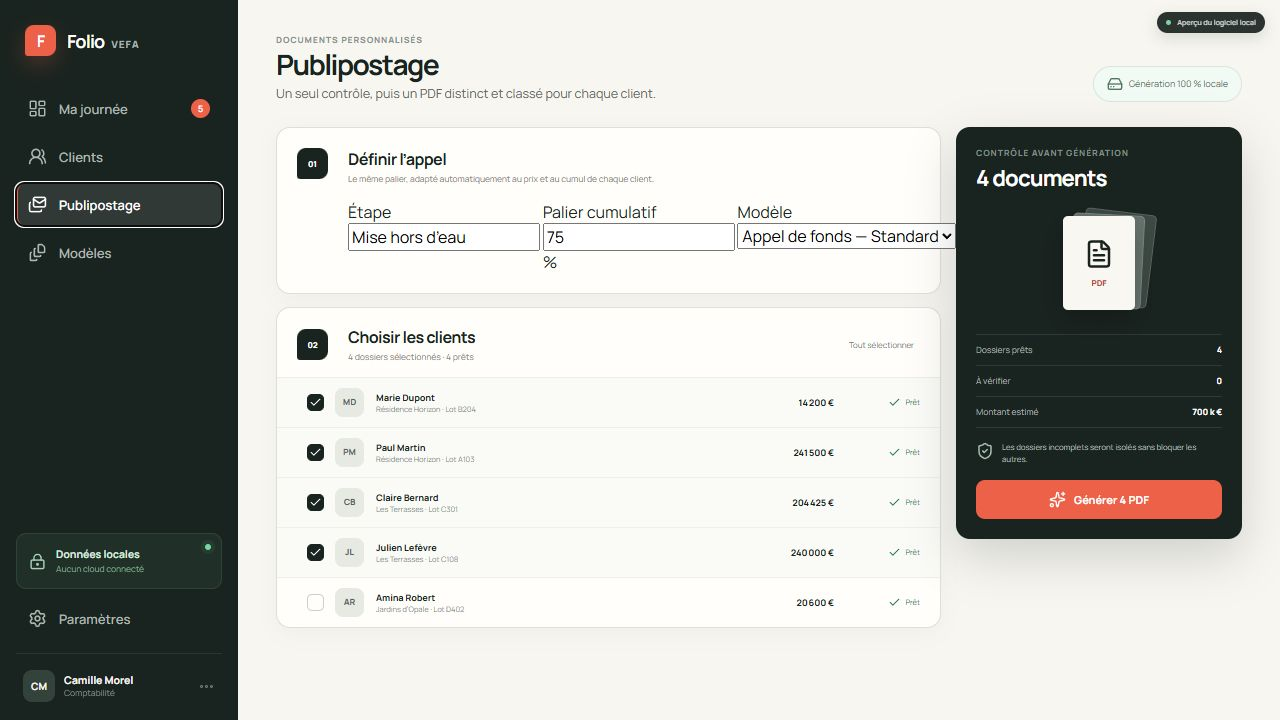
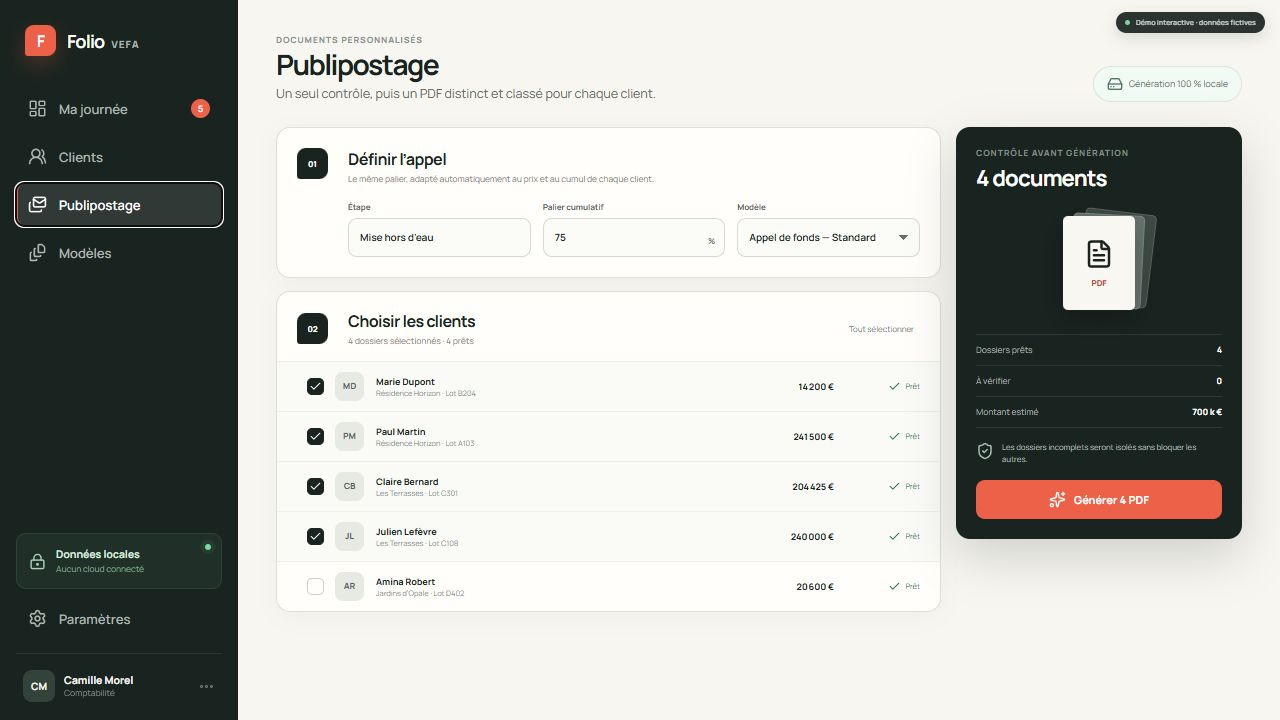
Calibrate story steps and refresh product capture

diff --git a/app/globals.css b/app/globals.css
@@ -33,12 +33,14 @@ button, input { font: inherit; }
 
 .hero { min-height: 1050px; position: relative; overflow: hidden; padding: 165px clamp(24px, 6vw, 92px) 110px; background: radial-gradient(circle at 18% 10%, #fff 0, rgba(255,255,255,0) 33%), var(--paper); }
 .hero::before { content: ""; position: absolute; width: 780px; height: 780px; border: 1px solid rgba(20,33,28,.08); border-radius: 50%; left: 50%; top: -490px; transform: translateX(-50%); box-shadow: 0 0 0 95px rgba(20,33,28,.018), 0 0 0 190px rgba(20,33,28,.012); }
-.hero__copy { position: relative; z-index: 2; max-width: 990px; margin: auto; text-align: center; }
+.hero__copy { position: relative; z-index: 2; max-width: 1220px; margin: auto; text-align: center; }
 .hero__eyebrow { width: fit-content; margin: 0 auto 28px; display: flex; align-items: center; gap: 10px; font-size: 10px; text-transform: uppercase; letter-spacing: .12em; color: #748079; }
-.hero__eyebrow span { background: var(--ink); color: white; padding: 7px 10px; border-radius: 30px; }
+.hero__eyebrow span { color: var(--ink); font-weight: 730; }
 .hero__eyebrow i { width: 3px; height: 3px; background: var(--accent); border-radius: 50%; }
-.hero h1 { margin: 0; font-size: clamp(52px, 7.4vw, 112px); line-height: .9; letter-spacing: -.072em; font-weight: 620; }
-.hero h1 em, .privacy h2 em, .outcome h2 em, .closing h2 em { font-family: var(--serif); font-weight: 420; color: var(--accent); }
+.hero h1 { margin: 0; font-size: clamp(52px, 6.15vw, 104px); line-height: .92; letter-spacing: -.068em; font-weight: 620; }
+.hero h1 span, .hero h1 em { display: block; white-space: nowrap; }
+.hero h1 em, .privacy h2 em, .outcome h2 em, .closing h2 em { font-family: var(--serif); font-weight: 420; }
+.hero h1 em { color: var(--ink); margin-top: .08em; }
 .hero__copy > p { max-width: 720px; margin: 34px auto 30px; color: var(--ink-soft); font-size: clamp(16px, 1.45vw, 20px); line-height: 1.65; }
 .hero__actions { display: flex; align-items: center; justify-content: center; gap: 24px; }
 .primary-link { min-height: 52px; padding: 0 20px; border-radius: 10px; background: var(--ink); color: white; display: inline-flex; align-items: center; gap: 20px; font-size: 12px; font-weight: 700; box-shadow: 0 12px 32px rgba(20,33,28,.16); transition: .2s ease; }
@@ -82,16 +84,18 @@ button, input { font: inherit; }
 .manifesto__compare article span { color: #7f8f87; text-transform: uppercase; letter-spacing: .12em; font-size: 8px; font-weight: 720; }
 .manifesto__compare article strong { font-size: clamp(14px, 1.3vw, 19px); font-weight: 600; }
 .manifesto__compare > i { display: grid; place-items: center; color: #718078; font-size: 19px; font-style: normal; }
-.manifesto__compare .manifesto__compare-result { background: var(--accent); color: white; }
-.manifesto__compare .manifesto__compare-result span { color: rgba(255,255,255,.7); }
+.manifesto__compare .manifesto__compare-result { background: rgba(255,255,255,.075); color: white; border-left: 3px solid var(--accent); }
+.manifesto__compare .manifesto__compare-result span { color: #f18a75; }
 
 .story { padding: 130px clamp(24px, 3vw, 52px) 100px; background: var(--paper-light); overflow: clip; }
 .story__intro { max-width: 1680px; margin: 0 auto 90px; display: grid; grid-template-columns: .65fr 1.45fr .9fr; align-items: end; gap: 40px; }
 .story__intro h2 { margin: 0; font-size: clamp(44px, 5vw, 74px); line-height: .96; letter-spacing: -.065em; font-weight: 620; }
 .story__intro p { margin: 0 0 5px; color: #6e7973; font-size: 14px; line-height: 1.7; }
-.story__grid { max-width: 1760px; width: 100%; margin: auto; display: grid; grid-template-columns: minmax(390px, .62fr) minmax(700px, 1.38fr); gap: clamp(34px, 4vw, 72px); }
-.story__copy { padding-bottom: 35vh; }
-.story-step { min-height: 90vh; display: grid; grid-template-columns: 46px 1fr; gap: 24px; align-content: center; opacity: .22; will-change: transform, opacity; }
+.story__anchor { display: block; height: 0; scroll-margin-top: 0; }
+.story__sequence { position: relative; max-width: 1760px; width: 100%; height: 400svh; margin: auto; }
+.story__stage { position: sticky; top: 0; height: 100svh; display: grid; grid-template-columns: minmax(390px, .62fr) minmax(700px, 1.38fr); gap: clamp(34px, 4vw, 72px); align-items: center; overflow: hidden; }
+.story__copy { position: relative; min-height: 520px; }
+.story-step { position: absolute; inset: 0; display: grid; grid-template-columns: 46px 1fr; gap: 24px; align-content: center; opacity: 1; will-change: transform, opacity, filter; }
 .story-step--active { opacity: 1; }
 .story-step__number { width: 40px; height: 40px; display: grid; place-items: center; border: 1px solid #cfd3cc; border-radius: 50%; font-size: 10px; font-weight: 740; }
 .story-step--active .story-step__number { background: var(--ink); color: white; border-color: var(--ink); }
@@ -100,21 +104,25 @@ button, input { font: inherit; }
 .story-step p { max-width: 530px; color: #657069; font-size: 15px; line-height: 1.72; }
 .story-step strong { display: flex; align-items: center; gap: 8px; margin-top: 25px; font-size: 11.5px; line-height: 1.45; font-weight: 690; }
 .story-step strong i { width: 7px; height: 7px; background: var(--green); border-radius: 50%; box-shadow: 0 0 0 5px rgba(46,125,97,.1); }
-.story__sticky { position: sticky; top: 4vh; height: 92vh; display: flex; flex-direction: column; justify-content: center; min-width: 0; perspective: 1500px; }
-.story__visual-motion { position: relative; width: min(100%, calc((92vh - 80px) * 1.72)); margin-left: auto; transform-style: preserve-3d; will-change: transform; }
+.story__visual { position: relative; width: min(100%, calc((100vh - 120px) * 1.72)); margin-left: auto; }
 .story__visual-head { min-height: 39px; padding: 0 3px 10px; display: flex; align-items: center; justify-content: space-between; color: #727d77; }
 .story__visual-head > div { display: flex; align-items: center; gap: 10px; }
 .story__visual-head b { min-width: 27px; height: 27px; border-radius: 8px; display: grid; place-items: center; background: var(--ink); color: white; font-size: 8px; }
 .story__visual-head div span { color: var(--ink); text-transform: uppercase; letter-spacing: .11em; font-size: 9px; font-weight: 730; }
 .story__visual-head > span { display: flex; align-items: center; gap: 7px; text-transform: uppercase; letter-spacing: .1em; font-size: 8px; font-weight: 700; }
 .story__visual-head > span i { width: 6px; height: 6px; border-radius: 50%; background: var(--green); box-shadow: 0 0 0 5px rgba(46,125,97,.09); }
-.story__screen { min-height: 0; position: relative; overflow: hidden; border-radius: 13px; }
-.story__screen-light { position: absolute; z-index: 3; inset: -30% auto -30% -35%; width: 28%; pointer-events: none; transform: skewX(-15deg); background: linear-gradient(90deg, transparent, rgba(255,255,255,.32), transparent); filter: blur(8px); }
+.story__screen { position: relative; aspect-ratio: 1280 / 753; overflow: hidden; border-radius: 13px; background: #e9e9e3; isolation: isolate; }
+.story__screen-layer { position: absolute; inset: 0; transform-origin: center; will-change: transform, opacity, filter, clip-path; }
+.story__screen-layer .product-frame { height: 100%; }
+.story__screen-layer .product-frame img { width: 100%; }
 .story__screen .product-frame { box-shadow: 0 40px 110px rgba(20,33,28,.19); }
 .story__counter { display: grid; grid-template-columns: auto 1fr auto; gap: 11px; align-items: center; margin-top: 19px; color: #7d8781; font-size: 9px; }
 .story__counter > i { display: grid; grid-template-columns: repeat(4, 1fr); gap: 4px; }
 .story__counter b { display: block; height: 2px; background: #d7dad4; }
-.story__counter b.active { background: var(--ink); }
+.story__counter b { transition: background .35s ease, transform .35s ease; transform-origin: left; }
+.story__counter b.active { background: var(--ink); transform: scaleY(1.5); }
+.story__triggers { position: absolute; inset: 0; display: grid; grid-template-rows: repeat(4, 1fr); pointer-events: none; visibility: hidden; }
+.story__mobile-list { display: none; }
 
 .privacy { padding: 150px clamp(24px, 8vw, 130px); background: #dfe9e1; position: relative; overflow: hidden; }
 .privacy::after { content: "LOCAL"; position: absolute; right: -30px; top: 60px; color: rgba(20,33,28,.035); font-size: 220px; font-weight: 760; letter-spacing: -.08em; }
@@ -153,6 +161,7 @@ button, input { font: inherit; }
 .closing__mark .folio-mark { width: 45px; height: 45px; font-size: 20px; border-radius: 13px 13px 13px 4px; }
 .closing > span { color: #86958d; font-size: 10px; text-transform: uppercase; letter-spacing: .16em; margin-top: 15px; }
 .closing h2 { font-size: clamp(56px, 7vw, 102px); letter-spacing: -.073em; line-height: .9; margin: 45px 0 28px; font-weight: 610; }
+.closing h2 em { color: #bac6c0; }
 .closing p { color: #9eaba4; font-size: 15px; max-width: 620px; line-height: 1.7; }
 .primary-link--light { margin-top: 25px; background: var(--paper-light); color: var(--ink); box-shadow: none; }
 .primary-link--light span { color: var(--accent); }
@@ -208,15 +217,16 @@ footer > span { text-align: right; }
   .routine-card:nth-child(3)::after { display: none; }
   .story__intro { grid-template-columns: 1fr; gap: 20px; }
   .story__intro h2 { max-width: 650px; }
-  .story__grid { grid-template-columns: 1fr; }
-  .story__copy { display: contents; }
-  .story-step { min-height: auto; padding: 100px 0 30px; }
-  .story__sticky { display: none; }
-  .story-step::after { content: ""; grid-column: 1 / -1; display: block; aspect-ratio: 16 / 9; margin-top: 25px; background-size: contain; background-repeat: no-repeat; background-position: center; border: 1px solid var(--line); border-radius: 10px; box-shadow: 0 24px 60px rgba(20,33,28,.12); }
-  .story-step:nth-child(1)::after { background-image: url('/screens/dashboard.png'); }
-  .story-step:nth-child(2)::after { background-image: url('/screens/client-detail.png'); }
-  .story-step:nth-child(3)::after { background-image: url('/screens/publipostage.png'); }
-  .story-step:nth-child(4)::after { background-image: url('/screens/confidentialite.png'); }
+  .story__sequence { display: none; }
+  .story__mobile-list { display: grid; }
+  .story-mobile-step { padding: 85px 0; border-top: 1px solid var(--line); }
+  .story-mobile-step:first-child { border-top: 0; }
+  .story-mobile-step > div { display: flex; align-items: center; gap: 13px; }
+  .story-mobile-step h3 { max-width: 720px; margin: 22px 0 18px; font-size: clamp(38px, 7vw, 60px); line-height: .96; letter-spacing: -.06em; }
+  .story-mobile-step p { max-width: 650px; color: #657069; font-size: 15px; line-height: 1.72; }
+  .story-mobile-step > strong { display: flex; align-items: center; gap: 8px; margin-top: 22px; font-size: 11.5px; }
+  .story-mobile-step > strong i { width: 7px; height: 7px; border-radius: 50%; background: var(--green); box-shadow: 0 0 0 5px rgba(46,125,97,.1); }
+  .story-mobile-step .product-frame { margin-top: 34px; }
   .privacy__split { grid-template-columns: 1fr; gap: 15px; margin: 0; }
   .privacy__divider { display: none; }
   .outcome__grid { grid-template-columns: 1fr; }
@@ -239,6 +249,7 @@ footer > span { text-align: right; }
   .hero { min-height: 760px; padding: 125px 18px 80px; }
   .hero__eyebrow { flex-wrap: wrap; justify-content: center; }
   .hero h1 { font-size: 49px; }
+  .hero h1 span, .hero h1 em { white-space: normal; }
   .hero__copy > p { font-size: 16px; }
   .hero__actions { flex-direction: column; }
   .product-frame__bar { height: 24px; }
@@ -262,6 +273,5 @@ footer > span { text-align: right; }
 
 @media (prefers-reduced-motion: reduce) {
   html { scroll-behavior: auto; }
-  .story__visual-motion { transform: none !important; }
   *, *::before, *::after { animation-duration: .01ms !important; animation-iteration-count: 1 !important; transition-duration: .01ms !important; }
 }

diff --git a/app/FolioStory.tsx b/app/FolioStory.tsx
@@ -2,7 +2,7 @@
 
 import { AnimatePresence, motion, useReducedMotion, useScroll, useSpring, useTransform } from "framer-motion";
 import Image from "next/image";
-import { useRef, useState } from "react";
+import { useState } from "react";
 import { RoutePortal, RouteTransitionLink } from "./RouteTransition";
 
 const stories = [
@@ -108,17 +108,13 @@ function Manifesto() {
 }
 
 export function FolioStory() {
-  const [activeStory, setActiveStory] = useState(0);
-  const storyGridRef = useRef<HTMLDivElement>(null);
+  const [{ index: activeStory, direction: storyDirection }, setStoryState] = useState({ index: 0, direction: 1 });
   const reduceMotion = useReducedMotion();
   const { scrollYProgress } = useScroll();
-  const { scrollYProgress: storyScrollProgress } = useScroll({ target: storyGridRef, offset: ["start end", "end start"] });
   const progress = useSpring(scrollYProgress, { stiffness: 110, damping: 28, mass: .35 });
   const heroY = useTransform(scrollYProgress, [0, .13], [0, reduceMotion ? 0 : 90]);
   const heroScale = useTransform(scrollYProgress, [0, .13], [1, reduceMotion ? 1 : .95]);
-  const storyScreenY = useTransform(storyScrollProgress, [0, .5, 1], [reduceMotion ? 0 : 58, 0, reduceMotion ? 0 : -58]);
-  const storyScreenScale = useTransform(storyScrollProgress, [0, .5, 1], [reduceMotion ? 1 : .965, reduceMotion ? 1 : 1.015, reduceMotion ? 1 : .965]);
-  const storyScreenRotateX = useTransform(storyScrollProgress, [0, .5, 1], [reduceMotion ? 0 : 2.2, 0, reduceMotion ? 0 : -2.2]);
+  const selectStory = (index: number) => setStoryState(previous => previous.index === index ? previous : { index, direction: index > previous.index ? 1 : -1 });
 
   return (
     <main>
@@ -137,7 +133,7 @@ export function FolioStory() {
       <section className="hero" id="haut">
         <motion.div className="hero__copy" initial={{ opacity: 0, y: 22 }} animate={{ opacity: 1, y: 0 }} transition={{ duration: .75, ease: [0.16, 1, 0.3, 1] }}>
           <div className="hero__eyebrow"><span>Conçu avec le métier</span><i />Logiciel local pour comptables VEFA</div>
-          <h1>Moins de dossiers à fouiller.<br /><em>Plus de travail déjà prêt.</em></h1>
+          <h1><span>Moins de dossiers à fouiller.</span><em>Plus de travail déjà prêt.</em></h1>
           <p>Folio réunit chaque client, prépare ses appels de fonds et génère ses courriers personnalisés — sans envoyer ses données sensibles sur le web.</p>
           <div className="hero__actions"><RouteTransitionLink className="primary-link" href="/demo" side="right">Manipuler le logiciel <span aria-hidden="true">↗</span></RouteTransitionLink><a className="text-link" href="#parcours">Voir le parcours <span aria-hidden="true">↓</span></a><span className="local-proof"><i />Démo fictive · produit réel en local</span></div>
         </motion.div>
@@ -150,26 +146,28 @@ export function FolioStory() {
 
       <Manifesto />
 
-      <section className="story" id="parcours">
+      <section className="story">
         <div className="story__intro"><span className="section-index">01 — Le parcours réel</span><h2>Quatre écrans.<br />Une journée plus légère.</h2><p>Faites défiler, puis ouvrez la démo : chaque écran montré ici appartient au logiciel fonctionnel.</p></div>
-        <div className="story__grid" ref={storyGridRef}>
-          <div className="story__copy">
-            {stories.map((item, index) => (
-              <motion.article
-                className={`story-step ${activeStory === index ? "story-step--active" : ""}`}
-                key={item.id}
-                onViewportEnter={() => setActiveStory(index)}
-                viewport={{ amount: .55 }}
-                animate={{ opacity: activeStory === index ? 1 : .22, x: activeStory === index ? 0 : -18 }}
-                transition={{ duration: .45, ease: [0.16, 1, 0.3, 1] }}
-              >
-                <span className="story-step__number">{item.number}</span>
-                <div><span className="story-step__kicker">{item.kicker}</span><h3>{item.title}</h3><p>{item.body}</p><strong><i />{item.proof}</strong></div>
-              </motion.article>
-            ))}
-          </div>
-          <div className="story__sticky" aria-live="polite">
-            <motion.div className="story__visual-motion" style={{ y: storyScreenY, scale: storyScreenScale, rotateX: storyScreenRotateX }}>
+        <span className="story__anchor" id="parcours" aria-hidden="true" />
+        <div className="story__sequence">
+          <div className="story__stage" aria-live="polite">
+            <div className="story__copy">
+              <AnimatePresence mode="wait" custom={storyDirection} initial={false}>
+                <motion.article
+                  className="story-step story-step--active"
+                  key={stories[activeStory].id}
+                  custom={storyDirection}
+                  initial={{ opacity: 0, y: reduceMotion ? 0 : storyDirection * 24, filter: reduceMotion ? "none" : "blur(5px)" }}
+                  animate={{ opacity: 1, y: 0, filter: "blur(0px)" }}
+                  exit={{ opacity: 0, y: reduceMotion ? 0 : storyDirection * -18, filter: reduceMotion ? "none" : "blur(4px)" }}
+                  transition={{ duration: reduceMotion ? 0 : .42, ease: [0.16, 1, 0.3, 1] }}
+                >
+                  <span className="story-step__number">{stories[activeStory].number}</span>
+                  <div><span className="story-step__kicker">{stories[activeStory].kicker}</span><h3>{stories[activeStory].title}</h3><p>{stories[activeStory].body}</p><strong><i />{stories[activeStory].proof}</strong></div>
+                </motion.article>
+              </AnimatePresence>
+            </div>
+            <div className="story__visual">
               <div className="story__visual-head">
                 <AnimatePresence mode="wait">
                   <motion.div key={stories[activeStory].id} initial={{ opacity: 0, x: 18 }} animate={{ opacity: 1, x: 0 }} exit={{ opacity: 0, x: -12 }} transition={{ duration: reduceMotion ? 0 : .3 }}><b>{stories[activeStory].number}</b><span>{stories[activeStory].kicker}</span></motion.div>
@@ -177,16 +175,29 @@ export function FolioStory() {
                 <span><i />Capture réelle du logiciel</span>
               </div>
               <div className="story__screen">
-                <AnimatePresence mode="popLayout">
-                  <motion.div key={stories[activeStory].id} initial={{ opacity: 0, x: reduceMotion ? 0 : 95, y: reduceMotion ? 0 : 24, scale: reduceMotion ? 1 : .92, rotateY: reduceMotion ? 0 : -5, clipPath: "inset(3% 5% 3% 5% round 16px)" }} animate={{ opacity: 1, x: 0, y: 0, scale: 1, rotateY: 0, clipPath: "inset(0% 0% 0% 0% round 13px)" }} exit={{ opacity: 0, x: reduceMotion ? 0 : -75, y: reduceMotion ? 0 : -16, scale: reduceMotion ? 1 : .97, rotateY: reduceMotion ? 0 : 3 }} transition={{ duration: reduceMotion ? 0 : .72, ease: [0.16, 1, 0.3, 1] }}>
+                <AnimatePresence mode="sync" custom={storyDirection} initial={false}>
+                  <motion.div
+                    className="story__screen-layer"
+                    key={stories[activeStory].id}
+                    custom={storyDirection}
+                    initial={{ opacity: 0, x: reduceMotion ? 0 : storyDirection * 18, scale: reduceMotion ? 1 : 1.018, filter: reduceMotion ? "none" : "blur(5px)", clipPath: storyDirection > 0 ? "inset(0 0 0 10% round 13px)" : "inset(0 10% 0 0 round 13px)" }}
+                    animate={{ opacity: 1, x: 0, scale: 1, filter: "blur(0px)", clipPath: "inset(0 0 0 0 round 13px)", zIndex: 2 }}
+                    exit={{ opacity: 0, x: reduceMotion ? 0 : storyDirection * -7, scale: reduceMotion ? 1 : .988, filter: reduceMotion ? "none" : "blur(3px)", zIndex: 1 }}
+                    transition={{ duration: reduceMotion ? 0 : .58, ease: [0.16, 1, 0.3, 1] }}
+                  >
                     <ProductFrame src={stories[activeStory].image} alt={stories[activeStory].alt} />
-                    {!reduceMotion && <motion.i className="story__screen-light" aria-hidden="true" initial={{ x: "-130%" }} animate={{ x: "140%" }} transition={{ duration: .9, ease: [0.16, 1, 0.3, 1] }} />}
                   </motion.div>
                 </AnimatePresence>
               </div>
               <div className="story__counter"><span>0{activeStory + 1}</span><i>{stories.map((_, index) => <b className={index <= activeStory ? "active" : ""} key={index} />)}</i><span>04</span></div>
-            </motion.div>
+            </div>
           </div>
+          <div className="story__triggers" aria-hidden="true">
+            {stories.map((item, index) => <motion.div key={item.id} onViewportEnter={() => selectStory(index)} viewport={{ amount: .55 }} />)}
+          </div>
+        </div>
+        <div className="story__mobile-list">
+          {stories.map(item => <article className="story-mobile-step" key={item.id}><div><span className="story-step__number">{item.number}</span><span className="story-step__kicker">{item.kicker}</span></div><h3>{item.title}</h3><p>{item.body}</p><strong><i />{item.proof}</strong><ProductFrame src={item.image} alt={item.alt} /></article>)}
         </div>
       </section>
 
